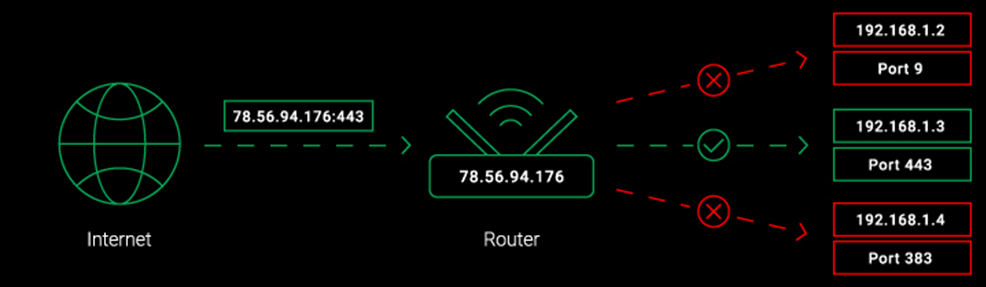
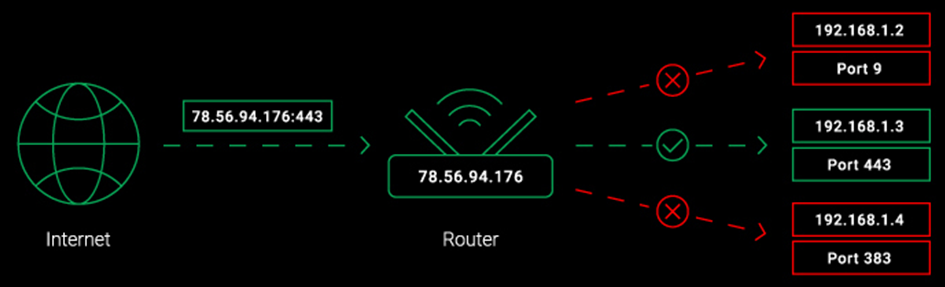
internet

diff --git a/stem/it/computer-science/computer-networking/computer-networking.md b/stem/it/computer-science/computer-networking/computer-networking.md
@@ -9,11 +9,13 @@
         <img src="./image/tcp-udp-list.png" width="50%">
     - ### [Network Mapper (Nmap)](./networking-tools/nmap.md)
 - ### [Packet](packet.md)
+- ### Socket
+    <img src="./image/socket.png" width="55%">
 - ### [Routing](routing.md)
 - ### [Switching](switching.md)
 - ### Network Address Translation (NAT)
     - ### Port Forwarding
-        <img src="./image/port-forwarding.png" width="50%">
+        <img src="./image/port-forwarding.png" width="65%">
 - ### [Internet Service Provider (ISP)](isp.md)
 - ### [Communication Protocol](./communication-protocol/communication-protocol.md)
 
